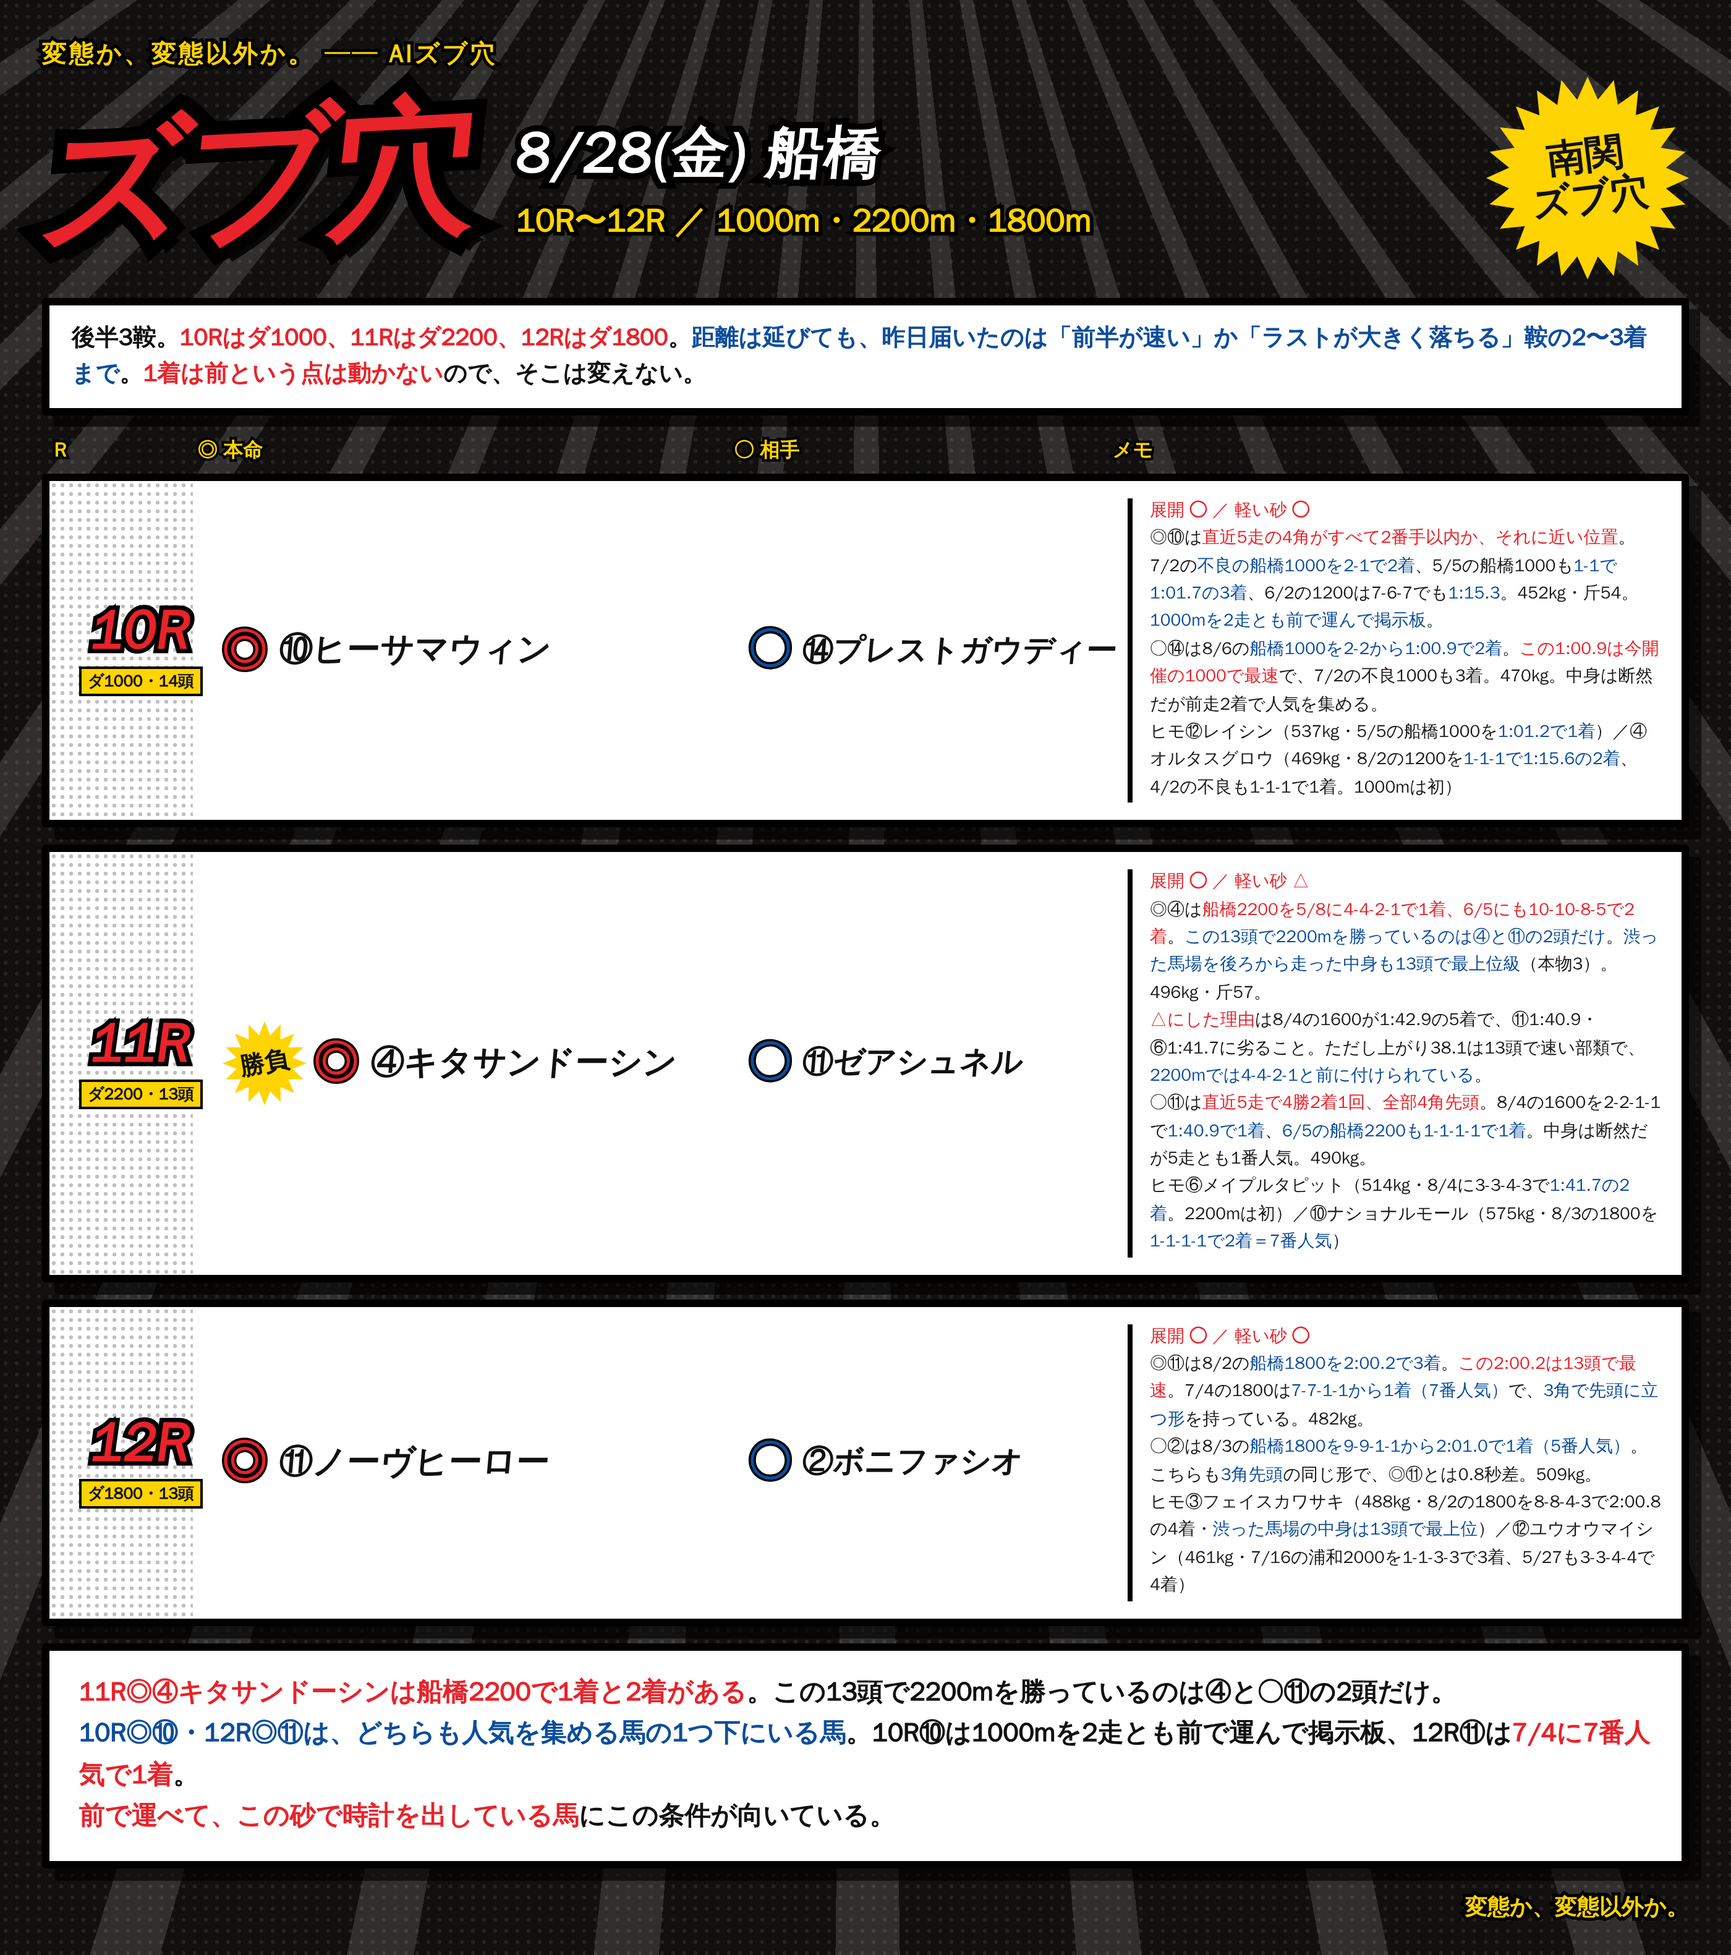
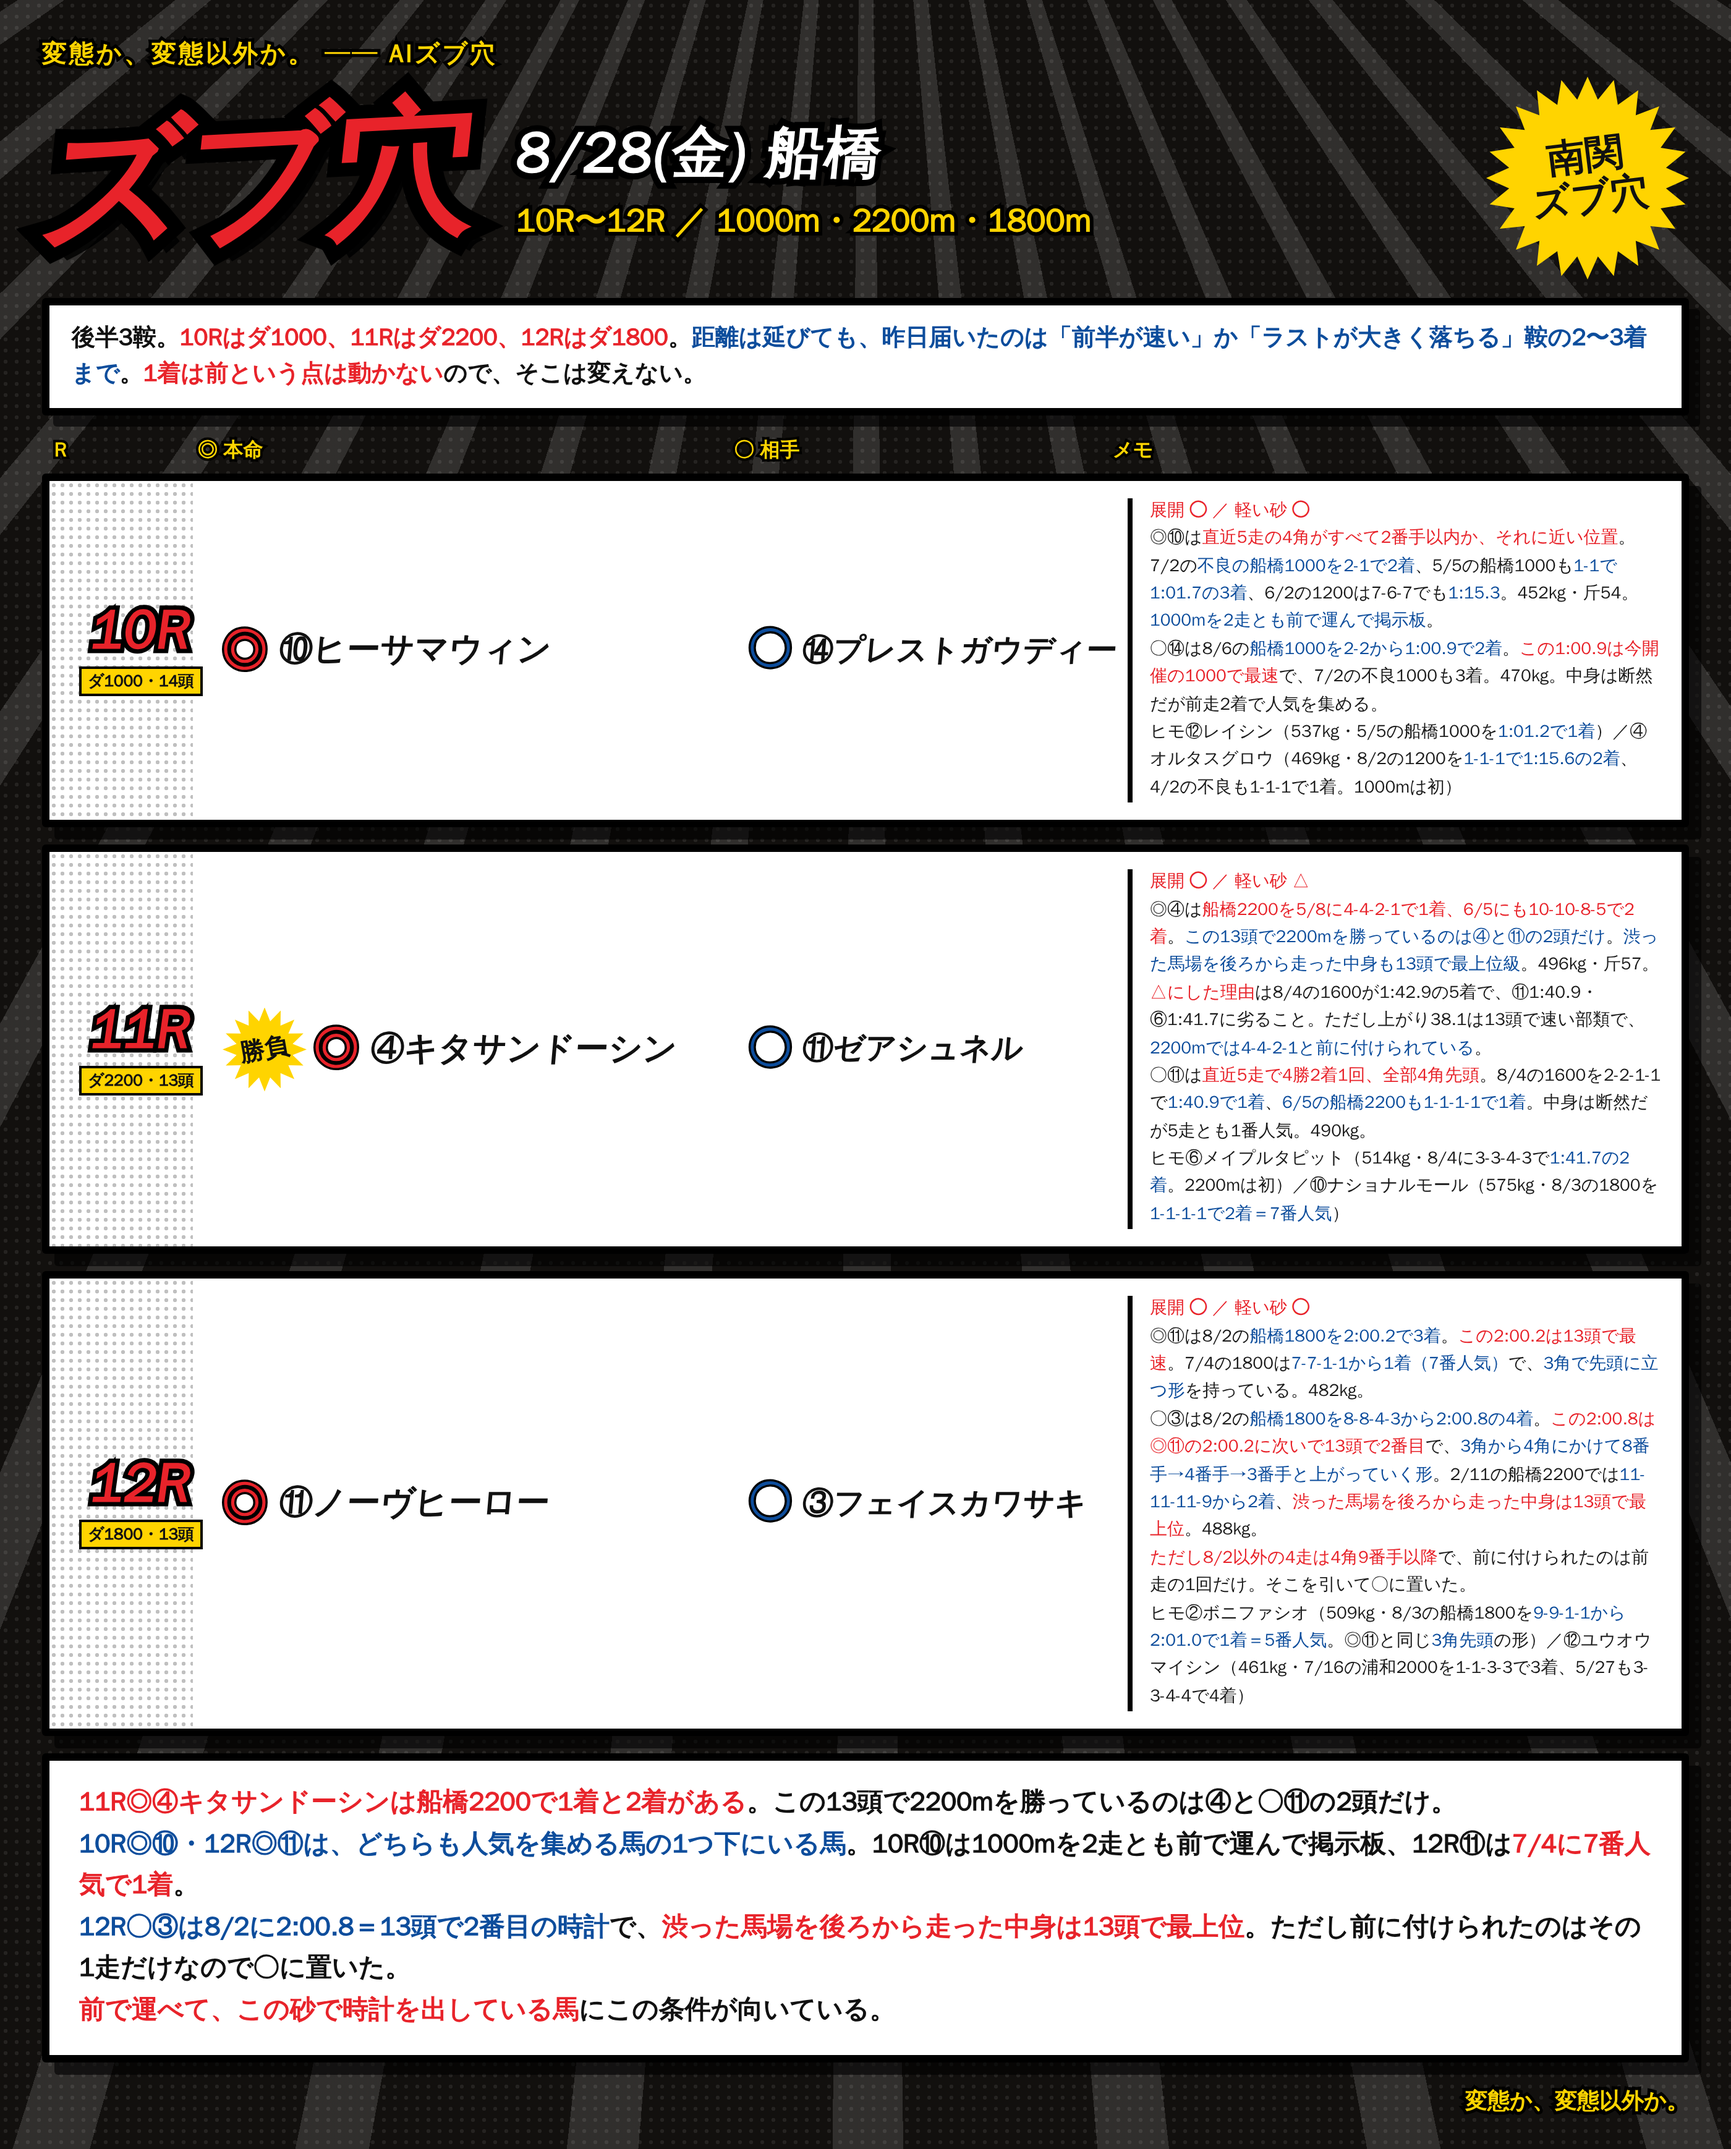
8/28 船橋 12R の○を③フェイスカワサキに差し替え
- 12R ○を②ボニファシオ→③フェイスカワサキへ。8/2 の船橋1800 を 8-8-4-3 から 2:00.8（13頭で2番目の時計）、
  3角→4角で 8番手→4番手→3番手と上がる形。2/11 の船橋2200 も 11-11-11-9 から2着
- ②ボニファシオはヒモへ（8/3 の 9-9-1-1 から 2:01.0 で1着）
- 締め文言に 12R○③ の根拠を追記
- 11R のメモから内部表記を削除
- README も同内容に更新

Claude-Session: https://claude.ai/code/session_01RoHscZkr96FNaxQWvUqgEw

diff --git a/notes/live/2026-08-28/funabashi_10_12.html b/notes/live/2026-08-28/funabashi_10_12.html
@@ -93,15 +93,15 @@
     <div class="rN"><div class="n">11R</div><div class="d">ダ2200・13頭</div></div>
     <div class="hm"><div class="sb"><span>勝負</span></div><span class="mk">◎</span><span class="nm">④キタサンドーシン</span></div>
     <div class="at"><span class="mk2">○</span><span class="nm2">⑪ゼアシュネル</span></div>
-    <div class="memo"><b class='r'>展開 ◯ ／ 軽い砂 △</b><br>◎④は<b class='r'>船橋2200を5/8に4-4-2-1で1着、6/5にも10-10-8-5で2着</b>。<b>この13頭で2200mを勝っているのは④と⑪の2頭だけ</b>。<b>渋った馬場を後ろから走った中身も13頭で最上位級</b>（本物3）。496kg・斤57。<br><b class='r'>△にした理由</b>は8/4の1600が1:42.9の5着で、⑪1:40.9・⑥1:41.7に劣ること。ただし上がり38.1は13頭で速い部類で、<b>2200mでは4-4-2-1と前に付けられている</b>。<br>○⑪は<b class='r'>直近5走で4勝2着1回、全部4角先頭</b>。8/4の1600を2-2-1-1で<b>1:40.9で1着</b>、<b>6/5の船橋2200も1-1-1-1で1着</b>。中身は断然だが5走とも1番人気。490kg。<br>ヒモ⑥メイプルタピット（514kg・8/4に3-3-4-3で<b>1:41.7の2着</b>。2200mは初）／⑩ナショナルモール（575kg・8/3の1800を<b>1-1-1-1で2着＝7番人気</b>）</div>
+    <div class="memo"><b class='r'>展開 ◯ ／ 軽い砂 △</b><br>◎④は<b class='r'>船橋2200を5/8に4-4-2-1で1着、6/5にも10-10-8-5で2着</b>。<b>この13頭で2200mを勝っているのは④と⑪の2頭だけ</b>。<b>渋った馬場を後ろから走った中身も13頭で最上位級</b>。496kg・斤57。<br><b class='r'>△にした理由</b>は8/4の1600が1:42.9の5着で、⑪1:40.9・⑥1:41.7に劣ること。ただし上がり38.1は13頭で速い部類で、<b>2200mでは4-4-2-1と前に付けられている</b>。<br>○⑪は<b class='r'>直近5走で4勝2着1回、全部4角先頭</b>。8/4の1600を2-2-1-1で<b>1:40.9で1着</b>、<b>6/5の船橋2200も1-1-1-1で1着</b>。中身は断然だが5走とも1番人気。490kg。<br>ヒモ⑥メイプルタピット（514kg・8/4に3-3-4-3で<b>1:41.7の2着</b>。2200mは初）／⑩ナショナルモール（575kg・8/3の1800を<b>1-1-1-1で2着＝7番人気</b>）</div>
   </div>
 
   <div class="row"><div class="corner"></div>
     <div class="rN"><div class="n">12R</div><div class="d">ダ1800・13頭</div></div>
     <div class="hm"><span class="mk">◎</span><span class="nm">⑪ノーヴヒーロー</span></div>
-    <div class="at"><span class="mk2">○</span><span class="nm2">②ボニファシオ</span></div>
-    <div class="memo"><b class='r'>展開 ◯ ／ 軽い砂 ◯</b><br>◎⑪は8/2の<b>船橋1800を2:00.2で3着</b>。<b class='r'>この2:00.2は13頭で最速</b>。7/4の1800は<b>7-7-1-1から1着（7番人気）</b>で、<b>3角で先頭に立つ形</b>を持っている。482kg。<br>○②は8/3の<b>船橋1800を9-9-1-1から2:01.0で1着（5番人気）</b>。こちらも<b>3角先頭</b>の同じ形で、◎⑪とは0.8秒差。509kg。<br>ヒモ③フェイスカワサキ（488kg・8/2の1800を8-8-4-3で2:00.8の4着・<b>渋った馬場の中身は13頭で最上位</b>）／⑫ユウオウマイシン（461kg・7/16の浦和2000を1-1-3-3で3着、5/27も3-3-4-4で4着）</div>
+    <div class="at"><span class="mk2">○</span><span class="nm2">③フェイスカワサキ</span></div>
+    <div class="memo"><b class='r'>展開 ◯ ／ 軽い砂 ◯</b><br>◎⑪は8/2の<b>船橋1800を2:00.2で3着</b>。<b class='r'>この2:00.2は13頭で最速</b>。7/4の1800は<b>7-7-1-1から1着（7番人気）</b>で、<b>3角で先頭に立つ形</b>を持っている。482kg。<br>○③は8/2の<b>船橋1800を8-8-4-3から2:00.8の4着</b>。<b class='r'>この2:00.8は◎⑪の2:00.2に次いで13頭で2番目</b>で、<b>3角から4角にかけて8番手→4番手→3番手と上がっていく形</b>。2/11の船橋2200では<b>11-11-11-9から2着</b>、<b class='r'>渋った馬場を後ろから走った中身は13頭で最上位</b>。488kg。<br><b class='r'>ただし8/2以外の4走は4角9番手以降</b>で、前に付けられたのは前走の1回だけ。そこを引いて○に置いた。<br>ヒモ②ボニファシオ（509kg・8/3の船橋1800を<b>9-9-1-1から2:01.0で1着＝5番人気</b>。◎⑪と同じ<b>3角先頭</b>の形）／⑫ユウオウマイシン（461kg・7/16の浦和2000を1-1-3-3で3着、5/27も3-3-4-4で4着）</div>
   </div>
-<div class="foot"><span class="r">11R◎④キタサンドーシンは船橋2200で1着と2着がある</span>。この13頭で2200mを勝っているのは④と○⑪の2頭だけ。<br><span class="b">10R◎⑩・12R◎⑪は、どちらも人気を集める馬の1つ下にいる馬</span>。10R⑩は1000mを2走とも前で運んで掲示板、12R⑪は<span class="r">7/4に7番人気で1着</span>。<br><span class="r">前で運べて、この砂で時計を出している馬</span>にこの条件が向いている。</div>
+<div class="foot"><span class="r">11R◎④キタサンドーシンは船橋2200で1着と2着がある</span>。この13頭で2200mを勝っているのは④と○⑪の2頭だけ。<br><span class="b">10R◎⑩・12R◎⑪は、どちらも人気を集める馬の1つ下にいる馬</span>。10R⑩は1000mを2走とも前で運んで掲示板、12R⑪は<span class="r">7/4に7番人気で1着</span>。<br><span class="b">12R○③は8/2に2:00.8＝13頭で2番目の時計</span>で、<span class="r">渋った馬場を後ろから走った中身は13頭で最上位</span>。ただし前に付けられたのはその1走だけなので○に置いた。<br><span class="r">前で運べて、この砂で時計を出している馬</span>にこの条件が向いている。</div>
 <div class="sig">変態か、変態以外か。</div>
 </div></div></body></html>

diff --git a/notes/live/2026-08-28/README.md b/notes/live/2026-08-28/README.md
@@ -90,7 +90,7 @@
 | 9R 勝負 | ダ1600・13頭 | ⑪キャッスルエール | ③キャッスルプライド | ⑥⑨ | ◯／◯ |
 | 10R | ダ1000・14頭 | ⑩ヒーサマウィン | ⑭プレストガウディー | ⑫④ | ◯／◯ |
 | 11R 勝負 | ダ2200・13頭 | ④キタサンドーシン | ⑪ゼアシュネル | ⑥⑩ | ◯／**△** |
-| 12R | ダ1800・13頭 | ⑪ノーヴヒーロー | ②ボニファシオ | ③⑫ | ◯／◯ |
+| 12R | ダ1800・13頭 | ⑪ノーヴヒーロー | ③フェイスカワサキ | ②⑫ | ◯／◯ |
 
 ## 各鞍のメモ
 
@@ -113,7 +113,11 @@
   この13頭で2200mを勝っているのは④と○⑪の2頭だけ。
   **軽い砂を△にしたのは8/4の1600が1:42.9の5着**で、⑪1:40.9・⑥1:41.7に劣るため
 - **12R ◎⑪ノーヴヒーロー**（482kg）… 8/2の船橋1800の**2:00.2が13頭で最速**、
-  7/4の1800は**7-7-1-1から1着（7番人気）**で**3角先頭の形**を持っている
+  7/4の1800は**7-7-1-1から1着（7番人気）**で**3角先頭の形**を持っている。
+  ○③フェイスカワサキ（488kg）は同じ8/2を**8-8-4-3から2:00.8の4着**＝**13頭で2番目の時計**で、
+  3角→4角に8番手→4番手→3番手と上がる形。2/11の船橋2200も11-11-11-9から2着で、
+  **渋った馬場を後ろから走った中身は13頭で最上位**。ただし8/2以外の4走は4角9番手以降。
+  ヒモ②ボニファシオ（509kg・8/3の1800を9-9-1-1から2:01.0で1着＝5番人気。◎⑪と同じ3角先頭の形）／⑫ユウオウマイシン
 
 ## 締め
 
